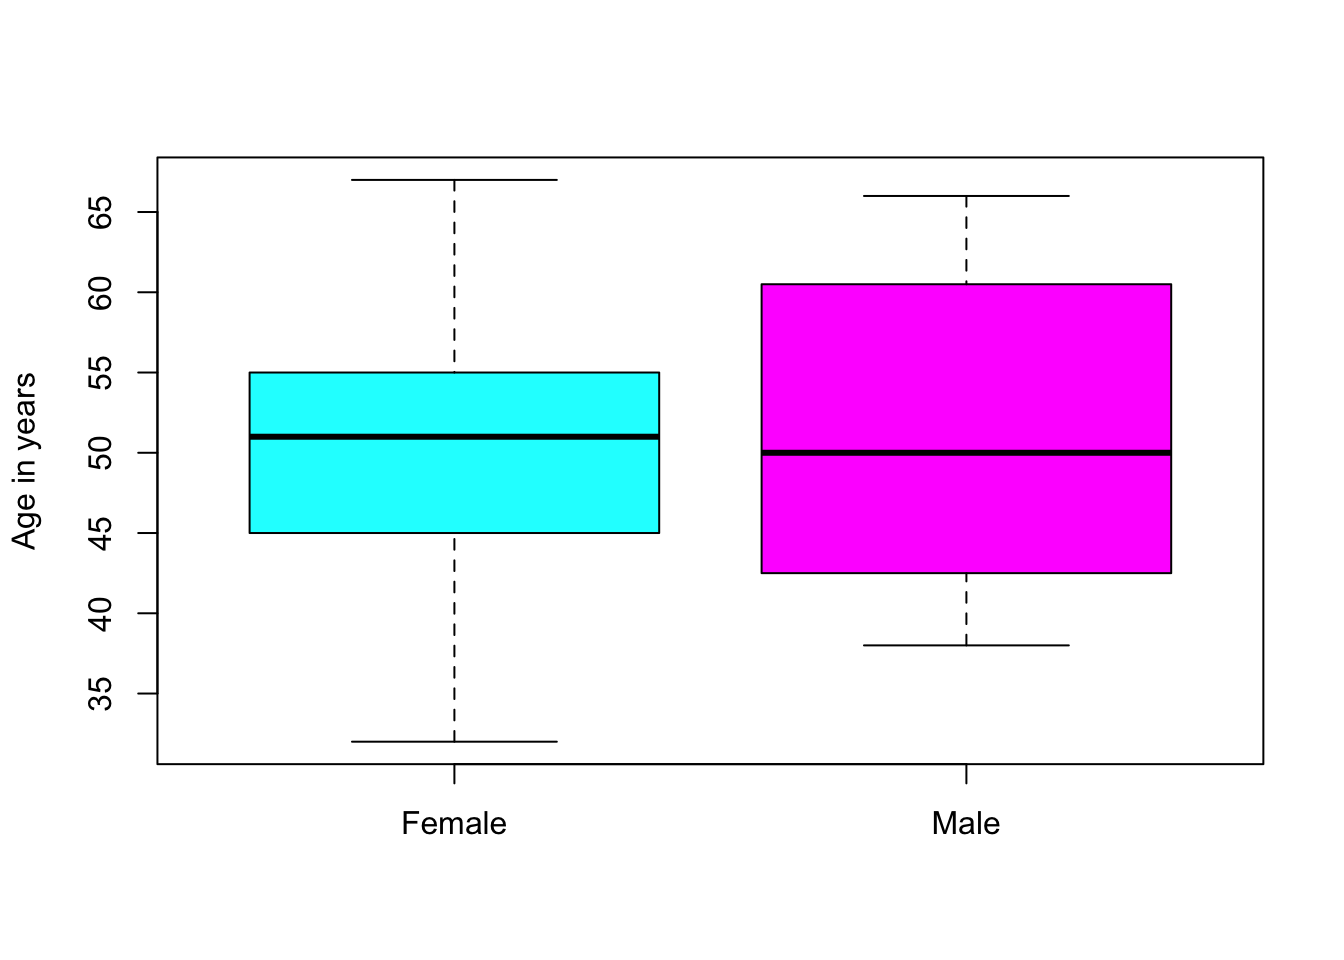
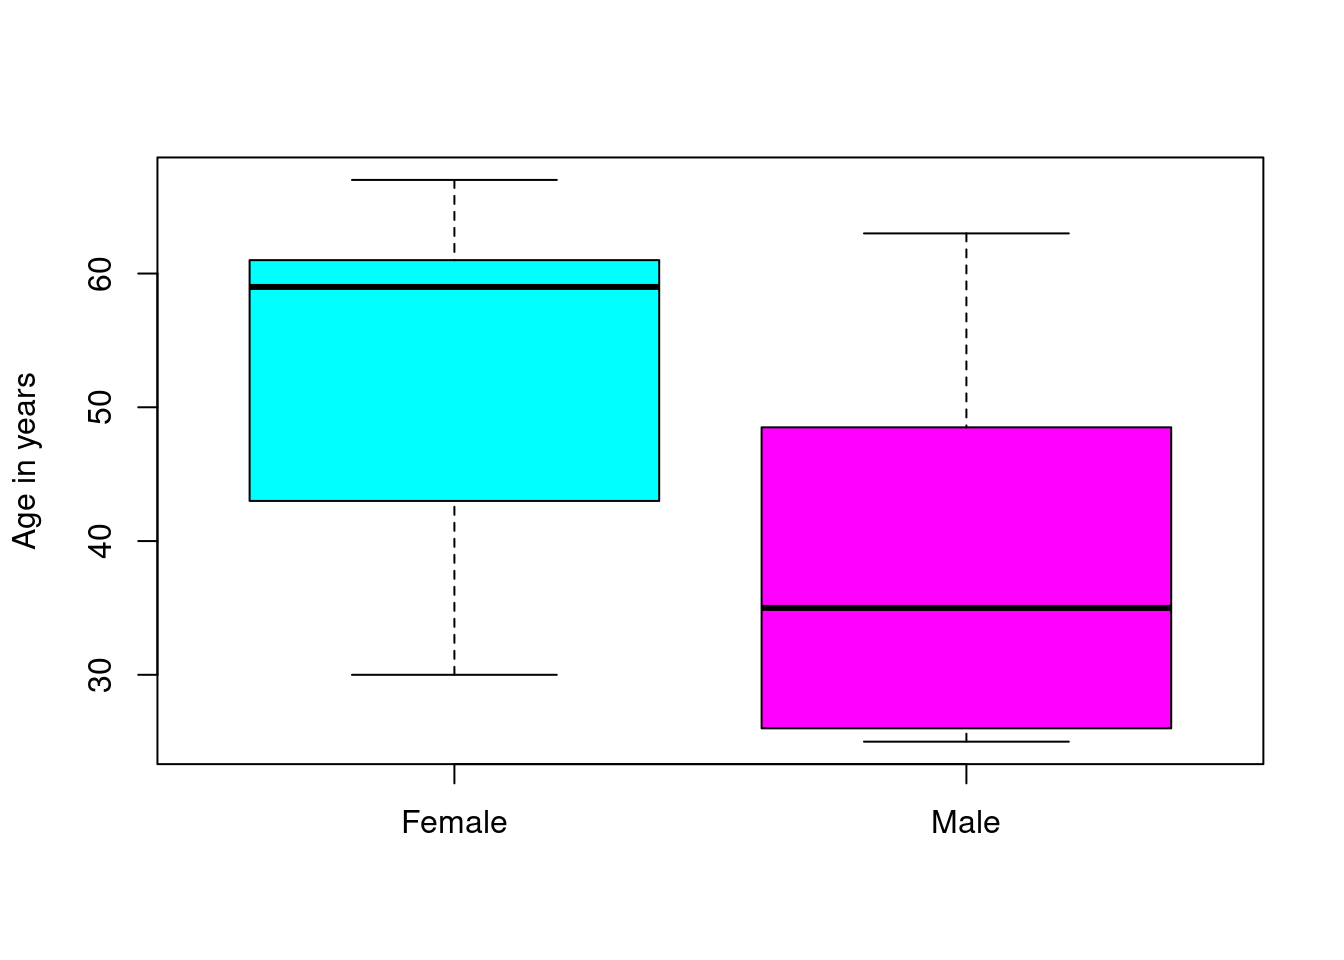
feedfix_01: remove syntax-highlighting to get rid of style tags in description

diff --git a/content/post/2020-10-29-hetu.en/index.html b/content/post/2020-10-29-hetu.en/index.html
@@ -11,75 +11,10 @@ tags:
   - Finland
   - national identification number
   - personal identity code
-output:
-  blogdown::html_page:
-    highlight: tango
+output: blogdown::html_page
 ---
 
 <script src="{{< blogdown/postref >}}index_files/header-attrs/header-attrs.js"></script>
-<style type="text/css">
-pre > code.sourceCode { white-space: pre; position: relative; }
-pre > code.sourceCode > span { display: inline-block; line-height: 1.25; }
-pre > code.sourceCode > span:empty { height: 1.2em; }
-code.sourceCode > span { color: inherit; text-decoration: inherit; }
-div.sourceCode { margin: 1em 0; }
-pre.sourceCode { margin: 0; }
-@media screen {
-div.sourceCode { overflow: auto; }
-}
-@media print {
-pre > code.sourceCode { white-space: pre-wrap; }
-pre > code.sourceCode > span { text-indent: -5em; padding-left: 5em; }
-}
-pre.numberSource code
-  { counter-reset: source-line 0; }
-pre.numberSource code > span
-  { position: relative; left: -4em; counter-increment: source-line; }
-pre.numberSource code > span > a:first-child::before
-  { content: counter(source-line);
-    position: relative; left: -1em; text-align: right; vertical-align: baseline;
-    border: none; display: inline-block;
-    -webkit-touch-callout: none; -webkit-user-select: none;
-    -khtml-user-select: none; -moz-user-select: none;
-    -ms-user-select: none; user-select: none;
-    padding: 0 4px; width: 4em;
-    color: #aaaaaa;
-  }
-pre.numberSource { margin-left: 3em; border-left: 1px solid #aaaaaa;  padding-left: 4px; }
-div.sourceCode
-  {  background-color: #f8f8f8; }
-@media screen {
-pre > code.sourceCode > span > a:first-child::before { text-decoration: underline; }
-}
-code span.al { color: #ef2929; } /* Alert */
-code span.an { color: #8f5902; font-weight: bold; font-style: italic; } /* Annotation */
-code span.at { color: #c4a000; } /* Attribute */
-code span.bn { color: #0000cf; } /* BaseN */
-code span.cf { color: #204a87; font-weight: bold; } /* ControlFlow */
-code span.ch { color: #4e9a06; } /* Char */
-code span.cn { color: #000000; } /* Constant */
-code span.co { color: #8f5902; font-style: italic; } /* Comment */
-code span.cv { color: #8f5902; font-weight: bold; font-style: italic; } /* CommentVar */
-code span.do { color: #8f5902; font-weight: bold; font-style: italic; } /* Documentation */
-code span.dt { color: #204a87; } /* DataType */
-code span.dv { color: #0000cf; } /* DecVal */
-code span.er { color: #a40000; font-weight: bold; } /* Error */
-code span.ex { } /* Extension */
-code span.fl { color: #0000cf; } /* Float */
-code span.fu { color: #000000; } /* Function */
-code span.im { } /* Import */
-code span.in { color: #8f5902; font-weight: bold; font-style: italic; } /* Information */
-code span.kw { color: #204a87; font-weight: bold; } /* Keyword */
-code span.op { color: #ce5c00; font-weight: bold; } /* Operator */
-code span.ot { color: #8f5902; } /* Other */
-code span.pp { color: #8f5902; font-style: italic; } /* Preprocessor */
-code span.sc { color: #000000; } /* SpecialChar */
-code span.ss { color: #4e9a06; } /* SpecialString */
-code span.st { color: #4e9a06; } /* String */
-code span.va { color: #000000; } /* Variable */
-code span.vs { color: #4e9a06; } /* VerbatimString */
-code span.wa { color: #8f5902; font-weight: bold; font-style: italic; } /* Warning */
-</style>
 
 
 <div id="general-information" class="section level2">
@@ -106,12 +41,12 @@ code span.wa { color: #8f5902; font-weight: bold; font-style: italic; } /* Warni
 <div id="use-of-hetu-package" class="section level3">
 <h3>Use of hetu-package</h3>
 <p>Installing the package in R from CRAN:</p>
-<div class="sourceCode" id="cb1"><pre class="sourceCode r"><code class="sourceCode r"><span id="cb1-1"><a href="#cb1-1" aria-hidden="true" tabindex="-1"></a><span class="fu">install.packages</span>(<span class="st">&quot;hetu&quot;</span>)</span></code></pre></div>
+<pre class="r"><code>install.packages(&quot;hetu&quot;)</code></pre>
 <p>Loading the package and setting a few imaginary PINs for testing:</p>
-<div class="sourceCode" id="cb2"><pre class="sourceCode r"><code class="sourceCode r"><span id="cb2-1"><a href="#cb2-1" aria-hidden="true" tabindex="-1"></a><span class="fu">library</span>(hetu)</span>
-<span id="cb2-2"><a href="#cb2-2" aria-hidden="true" tabindex="-1"></a>example_pins <span class="ot">&lt;-</span> <span class="fu">c</span>(<span class="st">&quot;010101-0101&quot;</span>, <span class="st">&quot;111111-111C&quot;</span>)</span></code></pre></div>
+<pre class="r"><code>library(hetu)
+example_pins &lt;- c(&quot;010101-0101&quot;, &quot;111111-111C&quot;)</code></pre>
 <p>Hetu-function is the backbone of the package and majority of the information that can be extracted is available as a simple data frame:</p>
-<div class="sourceCode" id="cb3"><pre class="sourceCode r"><code class="sourceCode r"><span id="cb3-1"><a href="#cb3-1" aria-hidden="true" tabindex="-1"></a>knitr<span class="sc">::</span><span class="fu">kable</span>(<span class="fu">hetu</span>(example_pins))</span></code></pre></div>
+<pre class="r"><code>knitr::kable(hetu(example_pins))</code></pre>
 <table>
 <thead>
 <tr class="header">
@@ -155,51 +90,51 @@ code span.wa { color: #8f5902; font-weight: bold; font-style: italic; } /* Warni
 </tbody>
 </table>
 <p>There are several alternatives in extracting specific information about a group of PINs, for example date of birth. If the output of the hetu-function is saved as an object, all columns can be normally subsetted. For the convenience of the end user, the information in the data frame can also be extracted by using extract-parameter in the hetu-function or by using one of the specialized functions:</p>
-<div class="sourceCode" id="cb4"><pre class="sourceCode r"><code class="sourceCode r"><span id="cb4-1"><a href="#cb4-1" aria-hidden="true" tabindex="-1"></a><span class="co"># Extracting sex</span></span>
-<span id="cb4-2"><a href="#cb4-2" aria-hidden="true" tabindex="-1"></a><span class="fu">hetu</span>(example_pins, <span class="at">extract =</span> <span class="st">&quot;sex&quot;</span>)</span></code></pre></div>
+<pre class="r"><code># Extracting sex
+hetu(example_pins, extract = &quot;sex&quot;)</code></pre>
 <pre><code>## [1] &quot;Female&quot; &quot;Male&quot;</code></pre>
-<div class="sourceCode" id="cb6"><pre class="sourceCode r"><code class="sourceCode r"><span id="cb6-1"><a href="#cb6-1" aria-hidden="true" tabindex="-1"></a><span class="fu">hetu_sex</span>(example_pins)</span></code></pre></div>
+<pre class="r"><code>hetu_sex(example_pins)</code></pre>
 <pre><code>## [1] &quot;Female&quot; &quot;Male&quot;</code></pre>
-<div class="sourceCode" id="cb8"><pre class="sourceCode r"><code class="sourceCode r"><span id="cb8-1"><a href="#cb8-1" aria-hidden="true" tabindex="-1"></a><span class="co"># Extracting date of birth</span></span>
-<span id="cb8-2"><a href="#cb8-2" aria-hidden="true" tabindex="-1"></a><span class="fu">hetu</span>(example_pins, <span class="at">extract =</span> <span class="st">&quot;date&quot;</span>)</span></code></pre></div>
+<pre class="r"><code># Extracting date of birth
+hetu(example_pins, extract = &quot;date&quot;)</code></pre>
 <pre><code>## [1] &quot;1901-01-01&quot; &quot;1911-11-11&quot;</code></pre>
-<div class="sourceCode" id="cb10"><pre class="sourceCode r"><code class="sourceCode r"><span id="cb10-1"><a href="#cb10-1" aria-hidden="true" tabindex="-1"></a><span class="fu">hetu_date</span>(example_pins)</span></code></pre></div>
+<pre class="r"><code>hetu_date(example_pins)</code></pre>
 <pre><code>## [1] &quot;1901-01-01&quot; &quot;1911-11-11&quot;</code></pre>
-<div class="sourceCode" id="cb12"><pre class="sourceCode r"><code class="sourceCode r"><span id="cb12-1"><a href="#cb12-1" aria-hidden="true" tabindex="-1"></a><span class="co"># Extracting information on validity</span></span>
-<span id="cb12-2"><a href="#cb12-2" aria-hidden="true" tabindex="-1"></a><span class="fu">hetu</span>(example_pins, <span class="at">extract =</span> <span class="st">&quot;valid.pin&quot;</span>)</span></code></pre></div>
+<pre class="r"><code># Extracting information on validity
+hetu(example_pins, extract = &quot;valid.pin&quot;)</code></pre>
 <pre><code>## [1] TRUE TRUE</code></pre>
-<div class="sourceCode" id="cb14"><pre class="sourceCode r"><code class="sourceCode r"><span id="cb14-1"><a href="#cb14-1" aria-hidden="true" tabindex="-1"></a><span class="fu">hetu_ctrl</span>(example_pins)</span></code></pre></div>
+<pre class="r"><code>hetu_ctrl(example_pins)</code></pre>
 <pre><code>## [1] TRUE TRUE</code></pre>
-<div class="sourceCode" id="cb16"><pre class="sourceCode r"><code class="sourceCode r"><span id="cb16-1"><a href="#cb16-1" aria-hidden="true" tabindex="-1"></a><span class="co"># Information that can be extracted only with extract-parameter</span></span>
-<span id="cb16-2"><a href="#cb16-2" aria-hidden="true" tabindex="-1"></a><span class="fu">hetu</span>(example_pins, <span class="at">extract =</span> <span class="st">&quot;p.num&quot;</span>)</span></code></pre></div>
+<pre class="r"><code># Information that can be extracted only with extract-parameter
+hetu(example_pins, extract = &quot;p.num&quot;)</code></pre>
 <pre><code>## [1] &quot;010&quot; &quot;111&quot;</code></pre>
 <p>In contrast to other information, extracting age works only with a specialized function. In this example we will also introduce the ability to generate random PINs with rhetu-function:</p>
-<div class="sourceCode" id="cb18"><pre class="sourceCode r"><code class="sourceCode r"><span id="cb18-1"><a href="#cb18-1" aria-hidden="true" tabindex="-1"></a>example_pins2 <span class="ot">&lt;-</span> <span class="fu">rhetu</span>(<span class="dv">5</span>, <span class="at">start =</span> <span class="st">&quot;1950-01-01&quot;</span>, <span class="at">end =</span> <span class="st">&quot;1995-05-07&quot;</span>)</span>
-<span id="cb18-2"><a href="#cb18-2" aria-hidden="true" tabindex="-1"></a><span class="co"># Age in years</span></span>
-<span id="cb18-3"><a href="#cb18-3" aria-hidden="true" tabindex="-1"></a><span class="fu">hetu_age</span>(example_pins2)</span></code></pre></div>
-<pre><code>## The age in years has been calculated at 2021-01-29.</code></pre>
-<pre><code>## [1] 65 38 45 66 30</code></pre>
-<div class="sourceCode" id="cb21"><pre class="sourceCode r"><code class="sourceCode r"><span id="cb21-1"><a href="#cb21-1" aria-hidden="true" tabindex="-1"></a><span class="co"># Age in months</span></span>
-<span id="cb21-2"><a href="#cb21-2" aria-hidden="true" tabindex="-1"></a><span class="fu">hetu_age</span>(example_pins2, <span class="at">timespan =</span> <span class="st">&quot;months&quot;</span>)</span></code></pre></div>
-<pre><code>## The age in months has been calculated at 2021-01-29.</code></pre>
-<pre><code>## [1] 788 458 543 800 367</code></pre>
-<div class="sourceCode" id="cb24"><pre class="sourceCode r"><code class="sourceCode r"><span id="cb24-1"><a href="#cb24-1" aria-hidden="true" tabindex="-1"></a><span class="co"># Age in 2011</span></span>
-<span id="cb24-2"><a href="#cb24-2" aria-hidden="true" tabindex="-1"></a><span class="fu">hetu_age</span>(example_pins2, <span class="at">date =</span> <span class="st">&quot;2011-01-01&quot;</span>)</span></code></pre></div>
+<pre class="r"><code>example_pins2 &lt;- rhetu(5, start = &quot;1950-01-01&quot;, end = &quot;1995-05-07&quot;)
+# Age in years
+hetu_age(example_pins2)</code></pre>
+<pre><code>## The age in years has been calculated at 2021-01-31.</code></pre>
+<pre><code>## [1] 33 69 62 31 43</code></pre>
+<pre class="r"><code># Age in months
+hetu_age(example_pins2, timespan = &quot;months&quot;)</code></pre>
+<pre><code>## The age in months has been calculated at 2021-01-31.</code></pre>
+<pre><code>## [1] 403 839 752 383 521</code></pre>
+<pre class="r"><code># Age in 2011
+hetu_age(example_pins2, date = &quot;2011-01-01&quot;)</code></pre>
 <pre><code>## The age in years has been calculated at 2011-01-01.</code></pre>
-<pre><code>## [1] 55 28 35 56 20</code></pre>
-<div class="sourceCode" id="cb27"><pre class="sourceCode r"><code class="sourceCode r"><span id="cb27-1"><a href="#cb27-1" aria-hidden="true" tabindex="-1"></a><span class="co"># Visualization: boxplot grouped by sex</span></span>
-<span id="cb27-2"><a href="#cb27-2" aria-hidden="true" tabindex="-1"></a>example_pins3 <span class="ot">&lt;-</span> <span class="fu">rhetu</span>(<span class="dv">20</span>, <span class="at">start =</span> <span class="st">&quot;1950-01-01&quot;</span>, <span class="at">end =</span> <span class="st">&quot;1995-05-07&quot;</span>, <span class="at">p.male =</span> <span class="fl">0.5</span>)</span>
-<span id="cb27-3"><a href="#cb27-3" aria-hidden="true" tabindex="-1"></a><span class="fu">boxplot</span>(<span class="fu">hetu_age</span>(example_pins3)<span class="sc">~</span><span class="fu">hetu_sex</span>(example_pins3), <span class="at">xlab =</span> <span class="st">&quot;&quot;</span>, <span class="at">ylab =</span> <span class="st">&quot;Age in years&quot;</span>, <span class="at">col=</span><span class="fu">c</span>(<span class="st">&quot;cyan&quot;</span>, <span class="st">&quot;magenta&quot;</span>))</span></code></pre></div>
-<pre><code>## The age in years has been calculated at 2021-01-29.</code></pre>
+<pre><code>## [1] 23 59 52 21 33</code></pre>
+<pre class="r"><code># Visualization: boxplot grouped by sex
+example_pins3 &lt;- rhetu(20, start = &quot;1950-01-01&quot;, end = &quot;1995-05-07&quot;, p.male = 0.5)
+boxplot(hetu_age(example_pins3)~hetu_sex(example_pins3), xlab = &quot;&quot;, ylab = &quot;Age in years&quot;, col=c(&quot;cyan&quot;, &quot;magenta&quot;))</code></pre>
+<pre><code>## The age in years has been calculated at 2021-01-31.</code></pre>
 <p><img src="{{< blogdown/postref >}}index_files/figure-html/unnamed-chunk-4-1.png" width="672" /></p>
 <p>In some cases diagnostics information for invalid PINs might be useful:</p>
-<div class="sourceCode" id="cb29"><pre class="sourceCode r"><code class="sourceCode r"><span id="cb29-1"><a href="#cb29-1" aria-hidden="true" tabindex="-1"></a><span class="fu">hetu_diagnostic</span>(<span class="st">&quot;321399-000G&quot;</span>)</span></code></pre></div>
+<pre class="r"><code>hetu_diagnostic(&quot;321399-000G&quot;)</code></pre>
 <pre><code>##           hetu is.temp valid.p.num valid.checksum correct.checksum valid.date
 ## 21 321399-000G   FALSE       FALSE          FALSE            FALSE      FALSE
 ##    valid.day valid.month valid.year valid.length valid.century
 ## 21     FALSE       FALSE       TRUE         TRUE          TRUE</code></pre>
-<div class="sourceCode" id="cb31"><pre class="sourceCode r"><code class="sourceCode r"><span id="cb31-1"><a href="#cb31-1" aria-hidden="true" tabindex="-1"></a><span class="co"># Print only certain columns</span></span>
-<span id="cb31-2"><a href="#cb31-2" aria-hidden="true" tabindex="-1"></a><span class="fu">hetu_diagnostic</span>(<span class="st">&quot;321399-000G&quot;</span>, <span class="at">extract =</span> <span class="fu">c</span>(<span class="st">&quot;valid.p.num&quot;</span>, <span class="st">&quot;valid.length&quot;</span>))</span></code></pre></div>
+<pre class="r"><code># Print only certain columns
+hetu_diagnostic(&quot;321399-000G&quot;, extract = c(&quot;valid.p.num&quot;, &quot;valid.length&quot;))</code></pre>
 <pre><code>##           hetu valid.p.num valid.length
 ## 21 321399-000G       FALSE         TRUE</code></pre>
 </div>
@@ -211,10 +146,10 @@ code span.wa { color: #8f5902; font-weight: bold; font-style: italic; } /* Warni
 <li>bid_ctrl(bid): checks the valiity of the BID, TRUE or FALSE</li>
 <li>rbid(n): generates n BIDs</li>
 </ul>
-<div class="sourceCode" id="cb33"><pre class="sourceCode r"><code class="sourceCode r"><span id="cb33-1"><a href="#cb33-1" aria-hidden="true" tabindex="-1"></a>example_bids <span class="ot">&lt;-</span> <span class="fu">rbid</span>(<span class="dv">2</span>)</span>
-<span id="cb33-2"><a href="#cb33-2" aria-hidden="true" tabindex="-1"></a>example_bids</span></code></pre></div>
-<pre><code>## [1] &quot;4741105-0&quot; &quot;2996120-0&quot;</code></pre>
-<div class="sourceCode" id="cb35"><pre class="sourceCode r"><code class="sourceCode r"><span id="cb35-1"><a href="#cb35-1" aria-hidden="true" tabindex="-1"></a><span class="fu">bid_ctrl</span>(example_bids)</span></code></pre></div>
+<pre class="r"><code>example_bids &lt;- rbid(2)
+example_bids</code></pre>
+<pre><code>## [1] &quot;7128741-6&quot; &quot;1963928-5&quot;</code></pre>
+<pre class="r"><code>bid_ctrl(example_bids)</code></pre>
 <pre><code>## [1] TRUE TRUE</code></pre>
 <p>No additional information can be extracted from BIDs.</p>
 </div>
